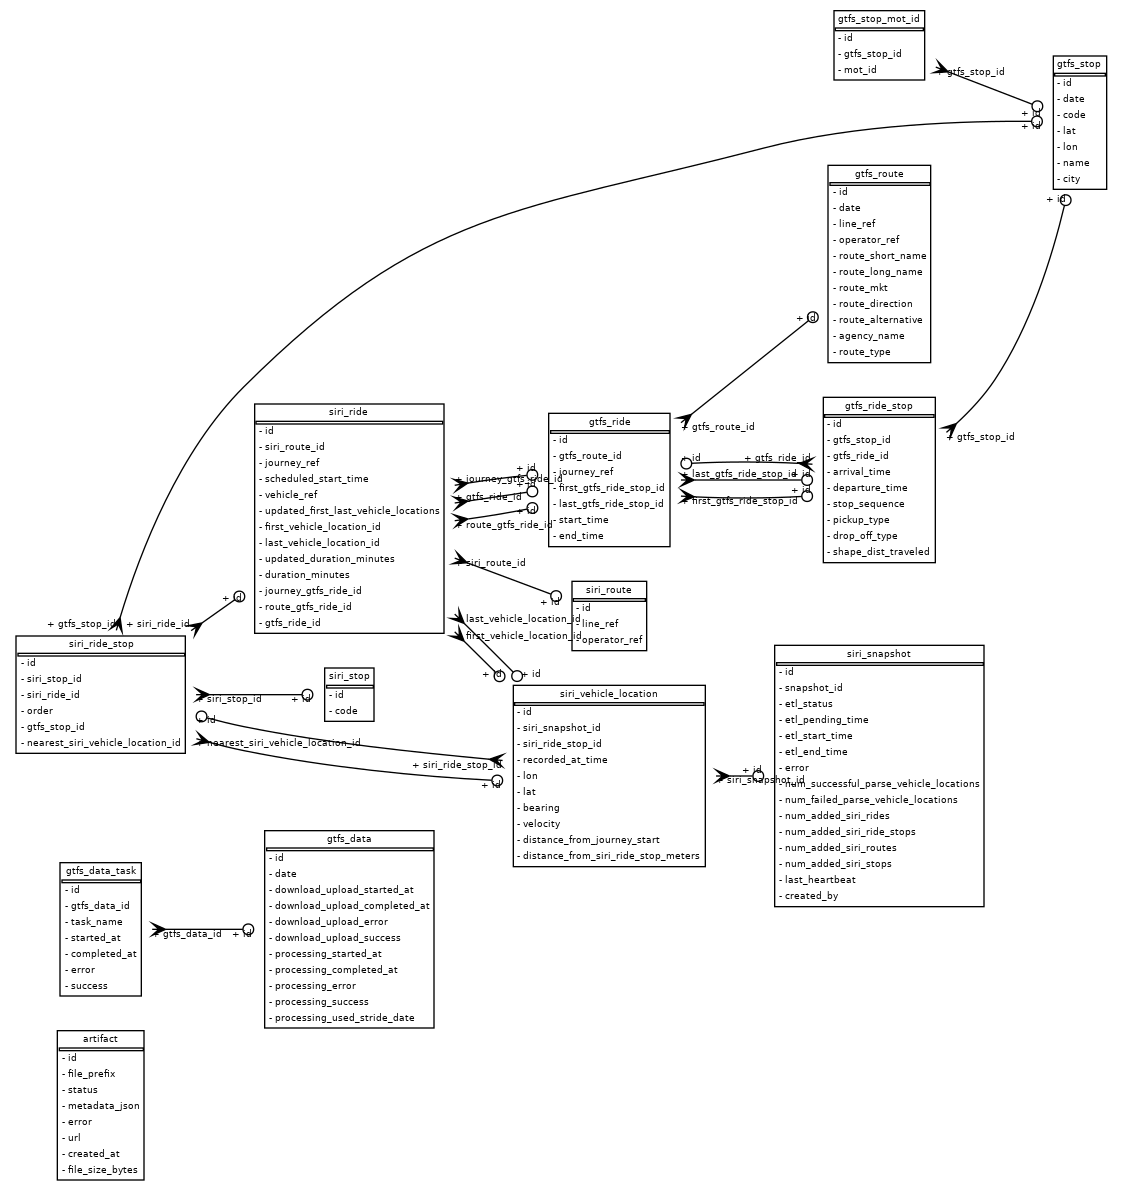
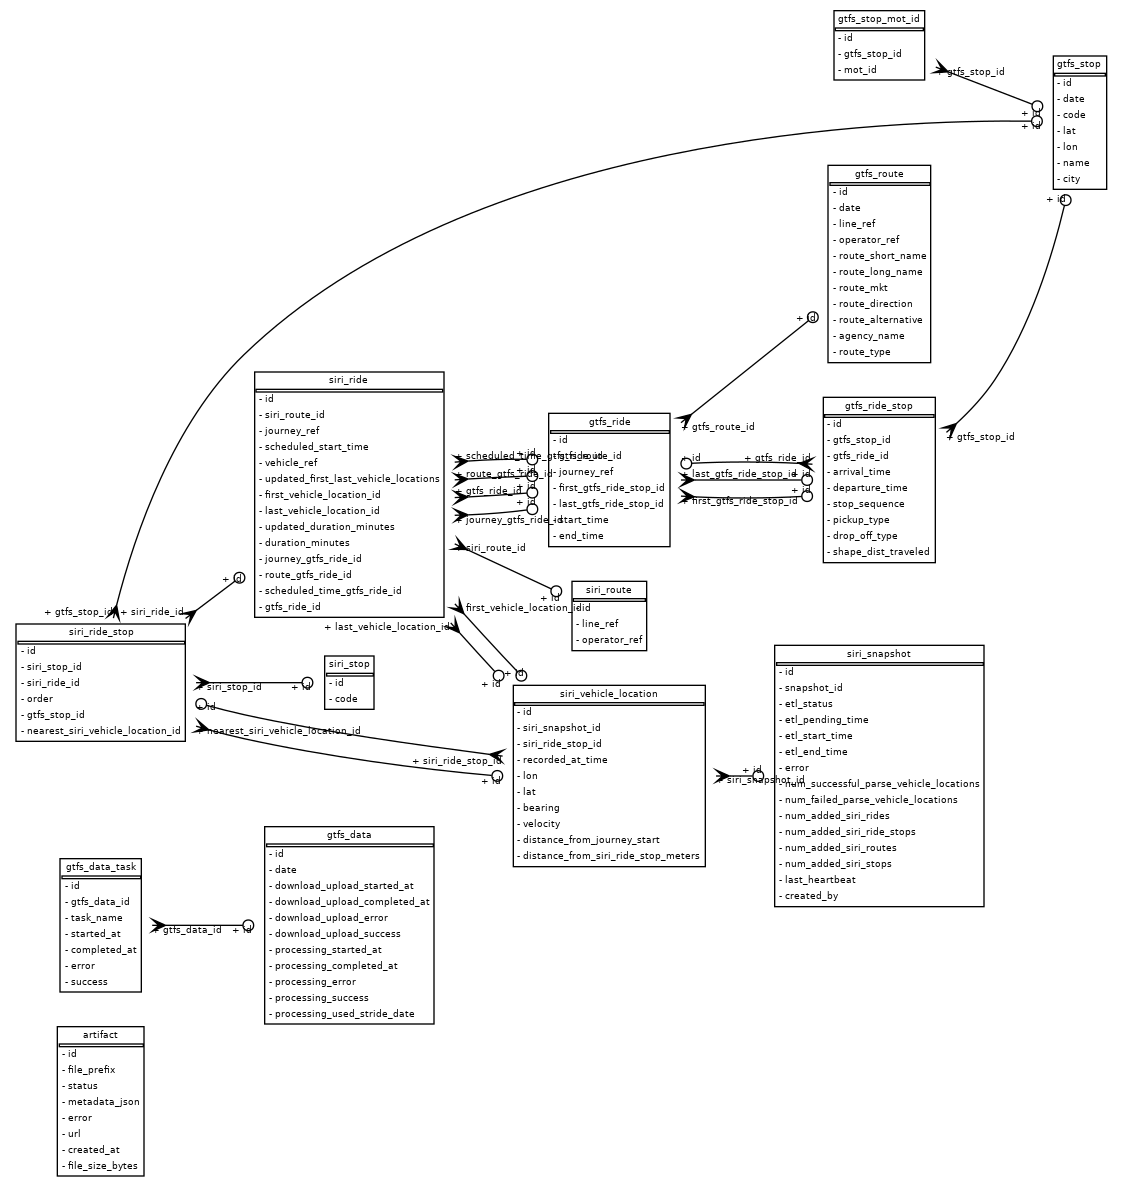
automatic update of the data model documentation

diff --git a/DATA_MODEL.md b/DATA_MODEL.md
@@ -243,10 +243,15 @@ Populated by [[stride-etl-siri-add-ride-durations]].
 
 #### siri_ride.journey_gtfs_ride_id
 
-The related [gtfs_ride](https://github.com/hasadna/open-bus-stride-db/blob/main/DATA_MODEL.md#gtfs_ride) based on journey_ref.
+Deprecated: The related [gtfs_ride](https://github.com/hasadna/open-bus-stride-db/blob/main/DATA_MODEL.md#gtfs_ride) based on journey_ref.
 Populated by [[stride-etl-siri-update-rides-gtfs]].
 
 #### siri_ride.route_gtfs_ride_id
+
+Deprecated: The related [gtfs_ride](https://github.com/hasadna/open-bus-stride-db/blob/main/DATA_MODEL.md#gtfs_ride) based on operator_ref, line_ref and scheduled_start_time.
+Populated by [[stride-etl-siri-update-rides-gtfs]].
+
+#### siri_ride.scheduled_time_gtfs_ride_id
 
 The related [gtfs_ride](https://github.com/hasadna/open-bus-stride-db/blob/main/DATA_MODEL.md#gtfs_ride) based on operator_ref, line_ref and scheduled_start_time.
 Populated by [[stride-etl-siri-update-rides-gtfs]].
